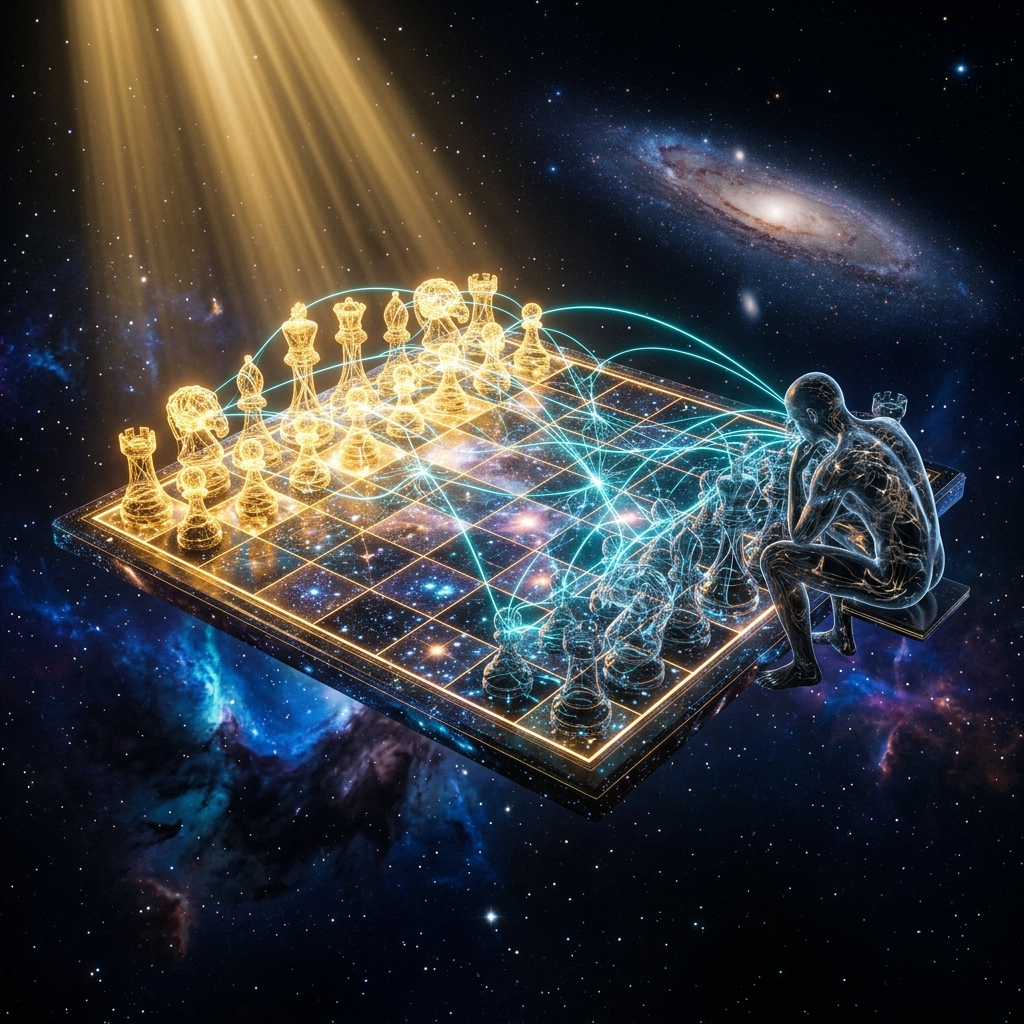
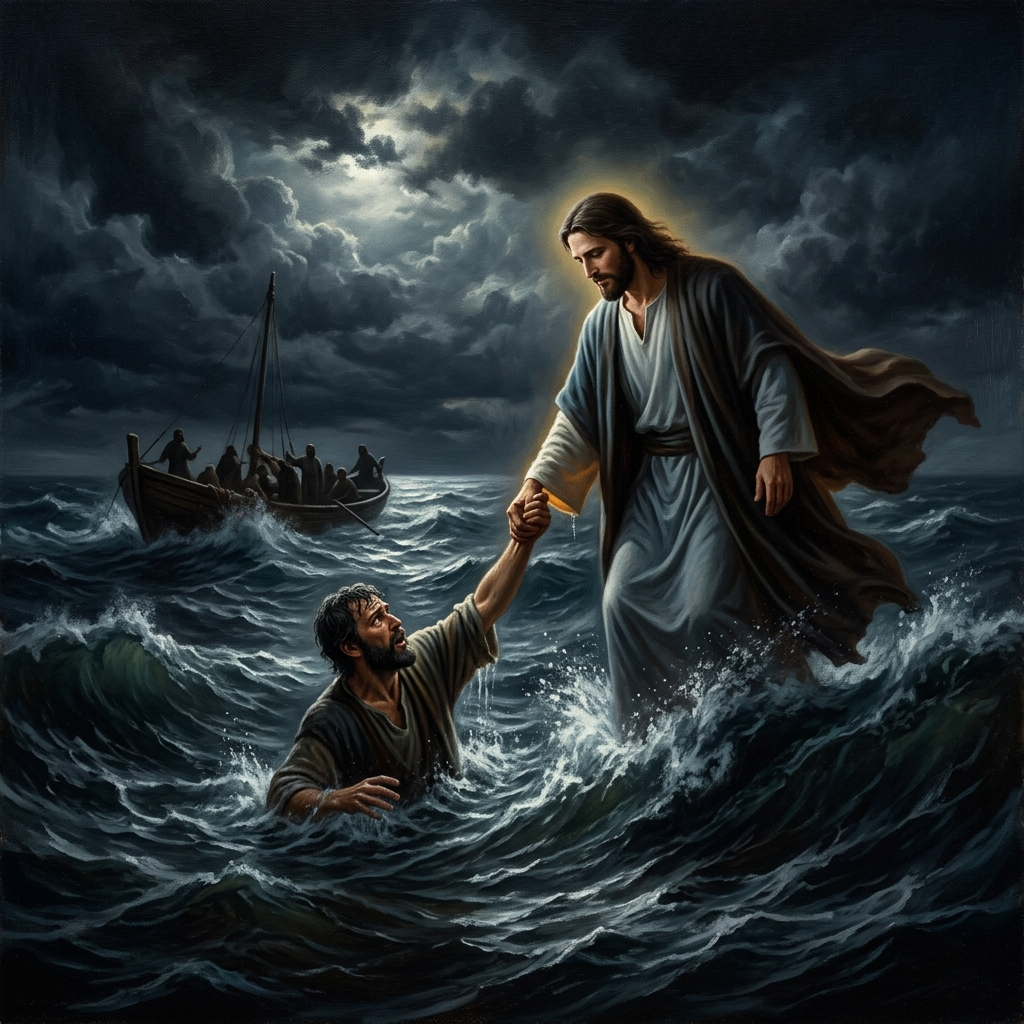
Remove belief scanner, replace hero with Jesus pulling Peter from water

diff --git a/Infographic - Trusting God.html b/Infographic - Trusting God.html
@@ -179,7 +179,7 @@
 
   <!-- ── LAYER 2: THE THESIS ── -->
   <section class="sr">
-    <div class="sec-head"><span class="layer-badge">LAYER 1 OF 7</span><h2 class="sec-label">🔑 The Core Distinction</h2></div>
+    <div class="sec-head"><span class="layer-badge">LAYER 1 OF 6</span><h2 class="sec-label">🔑 The Core Distinction</h2></div>
     <div class="card gold-b">
       <p class="statement stag">"Knowing something and <span style="color:var(--gold)">understanding</span> it are not the same thing. And understanding without <em>clarity</em> just sits in your head, untouched, unused."</p>
       <div class="scripture stag">Trust in the Lord with all your heart and do not lean on your own understanding. In all your ways acknowledge Him, and He will make your paths straight.<cite>— Proverbs 3:5-6</cite></div>
@@ -203,7 +203,7 @@
 
   <!-- ── LAYER 3: THE TRUST ARCHITECTURE MAP ── -->
   <section class="sr">
-    <div class="sec-head"><span class="layer-badge">LAYER 2 OF 7</span><h2 class="sec-label">🗺 The Trust Architecture Map</h2></div>
+    <div class="sec-head"><span class="layer-badge">LAYER 2 OF 6</span><h2 class="sec-label">🗺 The Trust Architecture Map</h2></div>
     <p class="body-text" style="text-align:center;color:var(--muted);margin-bottom:30px">Click or tap any node to reveal the deep insight behind it.</p>
     <div class="map-wrap"><div class="map-canvas">
 
@@ -254,7 +254,7 @@
 
   <!-- ── LAYER 4: DIALOGUE TIMELINE (SURPRISE #2) ── -->
   <section class="sr">
-    <div class="sec-head"><span class="layer-badge">LAYER 3 OF 7</span><h2 class="sec-label">💬 The Holy Spirit Diagnostic — Live Dialogue</h2></div>
+    <div class="sec-head"><span class="layer-badge">LAYER 3 OF 6</span><h2 class="sec-label">💬 The Holy Spirit Diagnostic — Live Dialogue</h2></div>
     <p class="body-text stag" style="margin-bottom:8px">This is a real conversation. One He led me through, question by question, until I could no longer hide behind my excuses. Navigate through the dialogue as it unfolded.</p>
     <div class="lab">
       <div class="lab-stage">
@@ -315,7 +315,7 @@
 
   <!-- ── LAYER 5: DEEP DIVES ── -->
   <section class="sr">
-    <div class="sec-head"><span class="layer-badge">LAYER 4 OF 7</span><h2 class="sec-label">🧩 Deep Architecture — The Subconscious Mind</h2></div>
+    <div class="sec-head"><span class="layer-badge">LAYER 4 OF 6</span><h2 class="sec-label">🧩 Deep Architecture — The Subconscious Mind</h2></div>
     <div class="card gold-b" style="margin-bottom:28px">
       <p class="body-text stag">Your mind operates on two levels. The <em class="em-text">conscious mind</em> makes active decisions — the part reading these words right now. And then there is your <em class="cyan-text">subconscious mind</em> — the part that runs on autopilot, running approximately <strong>95% of your daily activities</strong>.</p>
       <p class="body-text stag">The belief systems quietly undermining your trust in God are most likely not the ones you are consciously aware of. They are running in the background. They surface as feelings you can't fully explain, as resistance you can't name, as doubt that shows up before your conscious mind even has time to respond.</p>
@@ -349,25 +349,11 @@
     </div>
   </section>
 
-  <!-- ── LAYER 6: BELIEF SCANNER (SURPRISE #1) ── -->
-  <section class="sr">
-    <div class="sec-head"><span class="layer-badge">LAYER 5 OF 7</span><h2 class="sec-label">🔬 Subconscious Belief Scanner — Your Personal Audit</h2></div>
-    <p class="body-text stag" style="margin-bottom:8px">Type in a belief that is causing you to avoid trusting God. The scanner will analyze which of the 4 mindset builders most likely planted it in your subconscious.</p>
-    <div class="lab">
-      <div class="lab-stage">
-        <div class="scanner-wrap">
-          <textarea class="scanner-input" id="beliefInput" placeholder="e.g. 'God will slow me down' or 'What if He doesn't answer?'" rows="2"></textarea>
-          <button class="btn g" style="margin-top:16px;width:100%" onclick="scanBelief()">✦ SCAN THIS BELIEF</button>
-          <div class="scan-results" id="scanResults"></div>
-        </div>
-      </div>
-      <div class="lab-footer" id="scan-footer">STATUS: Enter a limiting belief above and press scan to diagnose its origin.</div>
-    </div>
-  </section>
+
 
   <!-- ── LAYER 7: PRAYER PROTOCOL CHECKER ── -->
   <section class="sr">
-    <div class="sec-head"><span class="layer-badge">LAYER 6 OF 7</span><h2 class="sec-label">🔓 The Four Conditions — Personal Audit</h2></div>
+    <div class="sec-head"><span class="layer-badge">LAYER 5 OF 6</span><h2 class="sec-label">🔓 The Four Conditions — Personal Audit</h2></div>
     <p class="body-text stag" style="margin-bottom:4px">God blesses you for three reasons: to make you comfortable, to make you effective in fulfilling His will, and to be a blessing to the world. These four conditions determine whether a prayer manifests. Audit yourself honestly.</p>
     <div class="lab" style="margin-top:28px">
       <div class="lab-stage">
@@ -396,7 +382,7 @@
 
   <!-- ── LAYER 8: REFLECTION + DECLARATION ── -->
   <section class="sr">
-    <div class="sec-head"><span class="layer-badge">LAYER 7 OF 7</span><h2 class="sec-label">🪞 The Three Honest Questions</h2></div>
+    <div class="sec-head"><span class="layer-badge">LAYER 6 OF 6</span><h2 class="sec-label">🪞 The Three Honest Questions</h2></div>
     <div class="card" style="text-align:center">
       <div id="rq1" class="rq show"><p class="body-text lg stag" style="font-style:italic">What does your mind <span style="color:var(--gold)">associate trusting in God with</span>? Disappointment? Control? Restriction? Trace that association back to its root. Name it. Write it down. Look at it plainly. Because you cannot address what you refuse to acknowledge.</p></div>
       <div id="rq2" class="rq"><p class="body-text lg stag" style="font-style:italic">Of the four mindset builders — information, associations, environment, past experience — <span style="color:var(--gold)">which one shaped your distrust the most?</span> Your answer is the specific origin point where your trust was corrupted. That is where healing begins.</p></div>
@@ -458,31 +444,6 @@ function closePanel(){document.getElementById('np').classList.remove('show');doc
 let tlIdx=0;const tlTotal=7;
 function tlGo(dir){tlIdx=Math.max(0,Math.min(tlTotal-1,tlIdx+dir));document.getElementById('tlTrack').style.transform=`translateX(-${tlIdx*100}%)`;document.getElementById('tlCounter').textContent=`${tlIdx+1} / ${tlTotal}`;document.getElementById('tlPrev').disabled=tlIdx===0;document.getElementById('tlNext').disabled=tlIdx===tlTotal-1;document.getElementById('tlFill').style.width=`${((tlIdx+1)/tlTotal)*100}%`;document.getElementById('tl-footer').textContent=`DIALOGUE: Exchange ${tlIdx+1} of ${tlTotal} — ${tlIdx===tlTotal-1?'End of diagnostic. Trust has been restored.':'Continue navigating to follow the conversation.'}`;}
 tlGo(0);
-
-// ── BELIEF SCANNER (SURPRISE #1) ──
-const scanCategories=[
-  {cls:'info',icon:'📚',title:'INFORMATION',reasons:['This belief was likely planted by what you were told — by sermons, school, media, or religious instruction that shaped a distorted picture of God.']},
-  {cls:'assoc',icon:'👥',title:'ASSOCIATIONS',reasons:['This belief was likely transferred to you by people around you — friends, leaders, or a congregation whose collective hopelessness became your default.']},
-  {cls:'env',icon:'🌍',title:'ENVIRONMENT & CULTURE',reasons:['This belief was likely shaped by the invisible rules of your environment — a culture where mediocrity in faith was normalized and victory was the exception.']},
-  {cls:'exp',icon:'💔',title:'PAST EXPERIENCE & FAILURE',reasons:['This belief was likely forged in the fire of personal disappointment — unanswered prayers, broken promises, or seasons of defeat that taught your brain to expect the worst.']}
-];
-let scanCount=0;
-function scanBelief(){const input=document.getElementById('beliefInput');const text=input.value.trim();if(!text)return;
-const keywords={info:['told','taught','learned','heard','read','bible','church','sermon','school','science','said'],assoc:['friends','people','family','leader','pastor','others','everyone','they','nobody','someone'],env:['culture','grew up','normal','always','tradition','society','community','world','system'],exp:['failed','prayed','disappointed','tried','hurt','lost','broken','never','didn\'t','pain','trauma','unanswered']};
-let scores={info:0,assoc:0,env:0,exp:0};const lower=text.toLowerCase();
-Object.keys(keywords).forEach(k=>{keywords[k].forEach(w=>{if(lower.includes(w))scores[k]+=2;});});
-// Add randomness for variety if no strong match
-const maxScore=Math.max(...Object.values(scores));
-if(maxScore===0){const cats=['info','assoc','env','exp'];const rand=cats[Math.floor(Math.random()*cats.length)];scores[rand]=1;}
-const winner=Object.entries(scores).sort((a,b)=>b[1]-a[1])[0][0];
-const catIdx={info:0,assoc:1,env:2,exp:3}[winner];
-const cat=scanCategories[catIdx];scanCount++;
-const results=document.getElementById('scanResults');
-const item=document.createElement('div');item.className=`scan-item ${cat.cls}`;item.style.position='relative';
-item.innerHTML=`<div class="scan-animation"></div><div class="scan-icon">${cat.icon}</div><div class="scan-text"><h5>ORIGIN: ${cat.title}</h5><p>"${text}" — ${cat.reasons[0]}</p></div>`;
-results.prepend(item);input.value='';
-document.getElementById('scan-footer').textContent=`STATUS: ${scanCount} belief(s) scanned. Each one you name is one you can now address.`;
-setTimeout(()=>{const anim=item.querySelector('.scan-animation');if(anim)anim.remove();},800);}
 
 // ── PROTOCOLS ──
 const protoChecked=new Set();